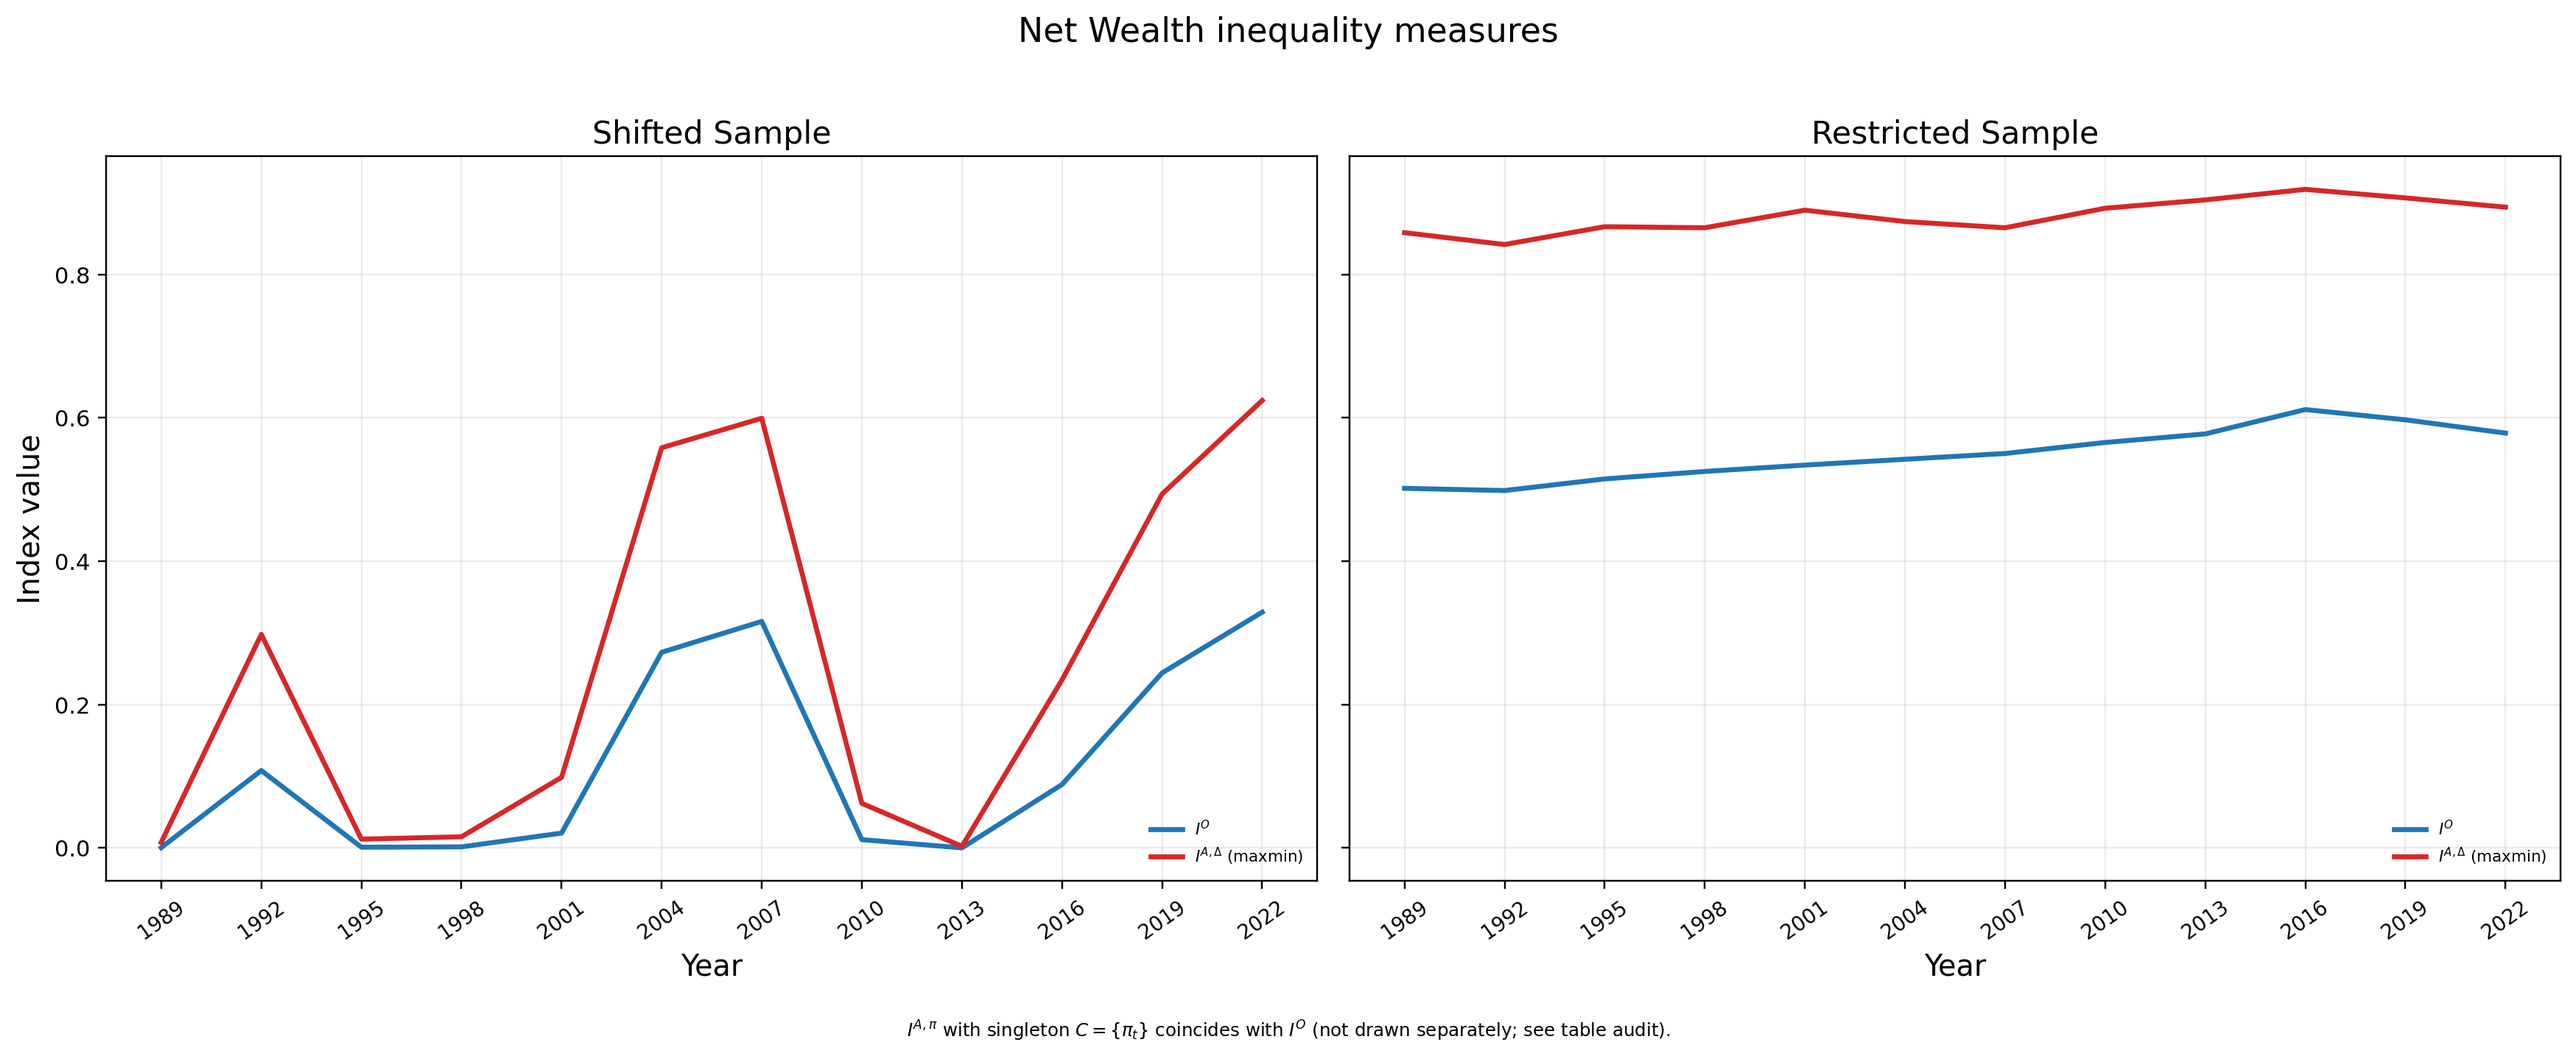
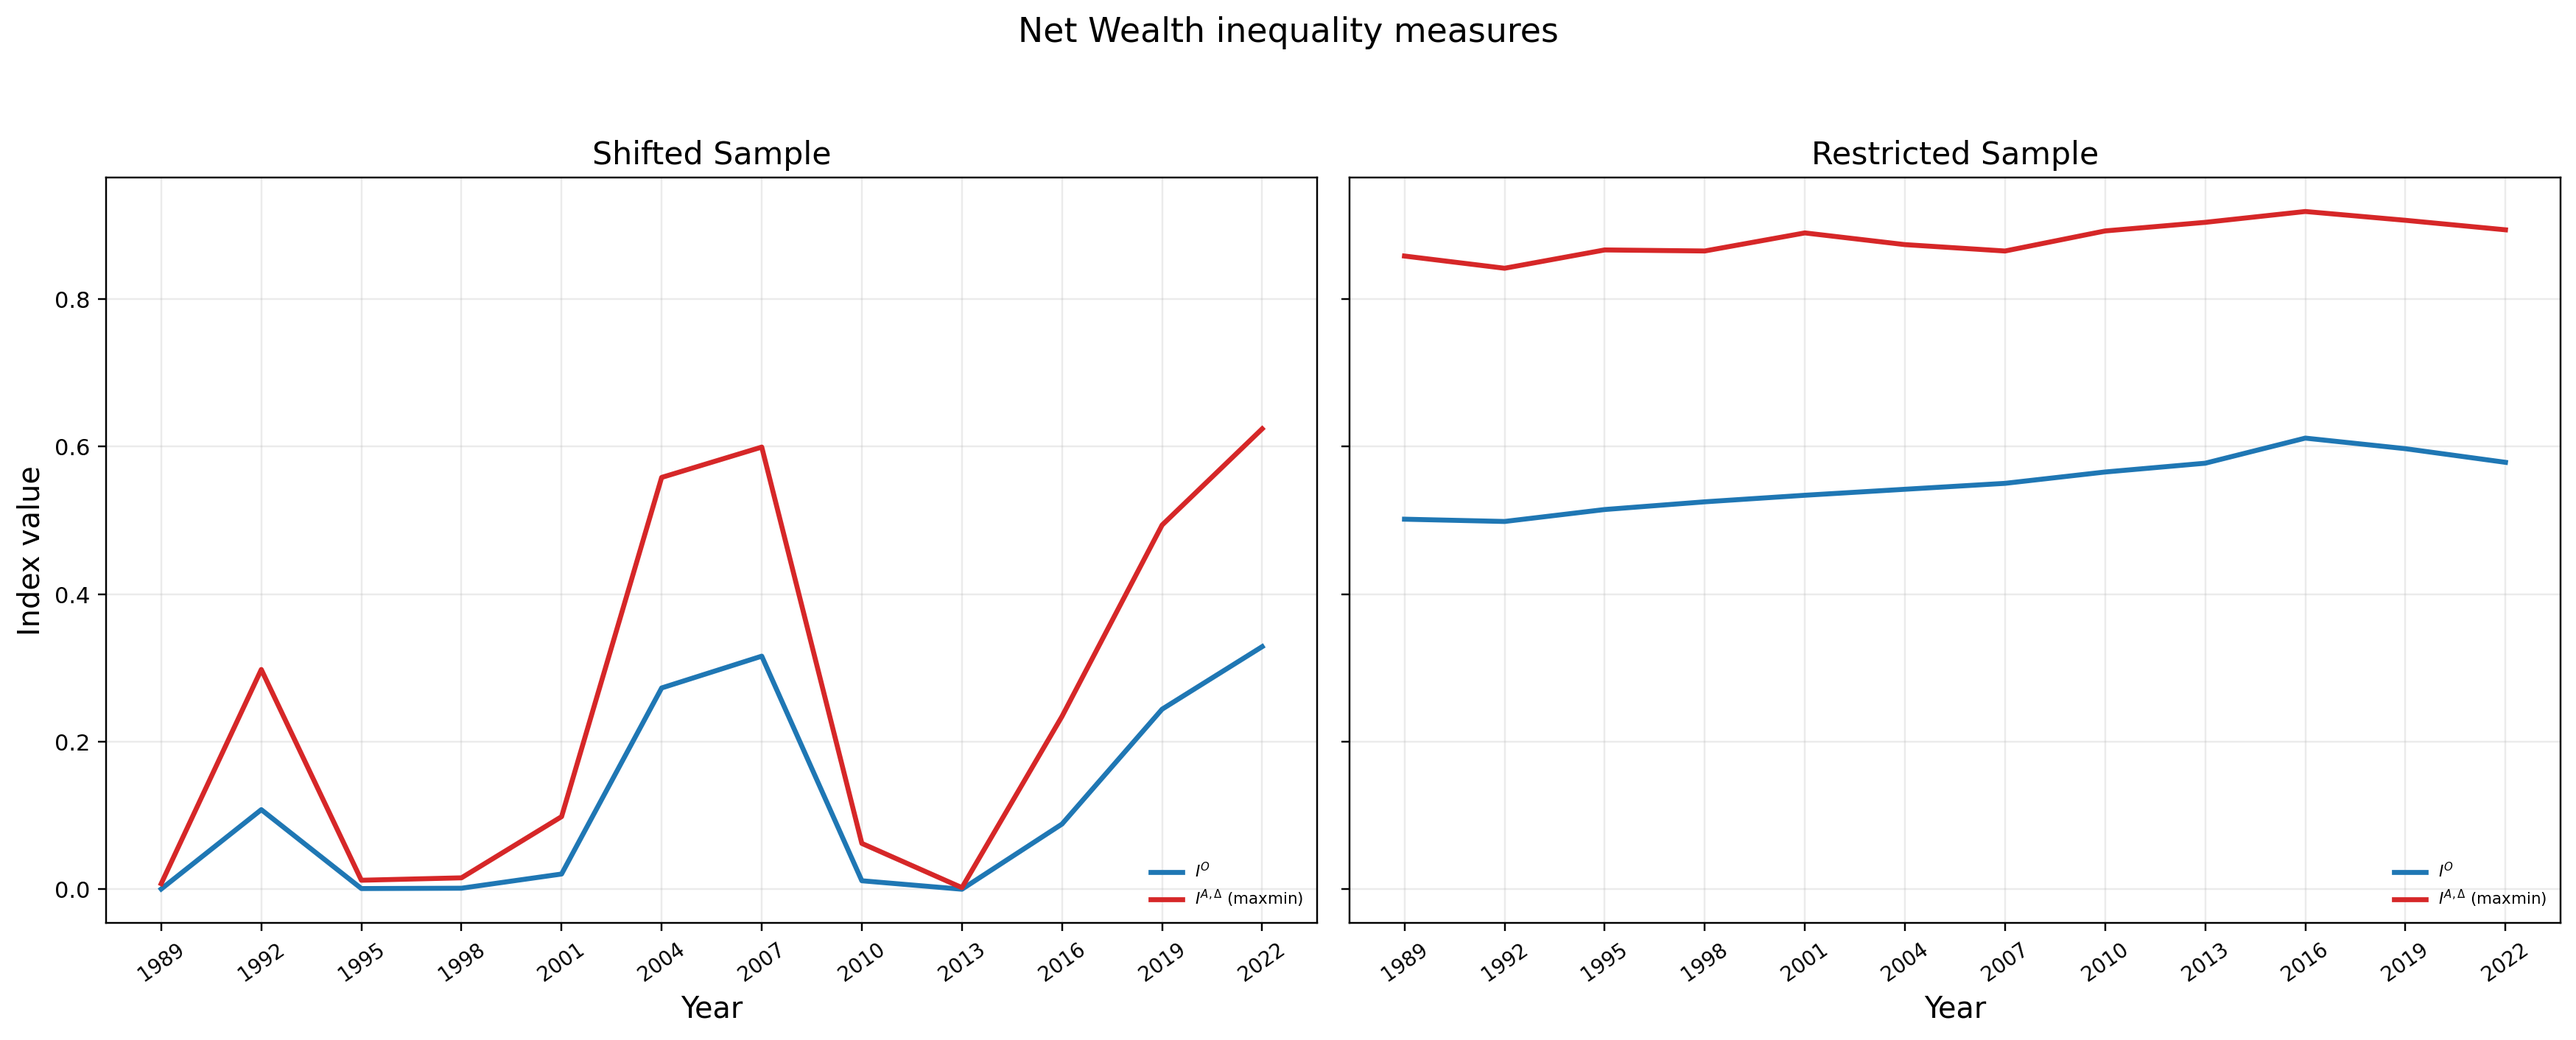
edits

diff --git a/chapters/chapter3/Figures/04_measures_eps0_gross.tex b/chapters/chapter3/Figures/04_measures_eps0_gross.tex
@@ -44,6 +44,4 @@ xticklabel style={/pgf/number format/fixed,/pgf/number format/precision=0,/pgf/n
 \end{tikzpicture}
 \end{minipage}
 
-{\footnotesize $I^{A,\pi}$ with singleton $C=\{\pi_t\}$ equals $I^{O}$ (audit CSV: columns I\_O and I\_A\_singleton).}
-
 % Gross Assets inequality measures

diff --git a/chapters/chapter3/Figures/05_measures_eps05_gross.tex b/chapters/chapter3/Figures/05_measures_eps05_gross.tex
@@ -44,6 +44,4 @@ xticklabel style={/pgf/number format/fixed,/pgf/number format/precision=0,/pgf/n
 \end{tikzpicture}
 \end{minipage}
 
-{\footnotesize $I^{A,\pi}$ with singleton $C=\{\pi_t\}$ equals $I^{O}$ (audit CSV: columns I\_O and I\_A\_singleton).}
-
 % Gross Assets inequality measures

diff --git a/chapters/chapter3/Figures/06_measures_eps1_gross.tex b/chapters/chapter3/Figures/06_measures_eps1_gross.tex
@@ -44,6 +44,4 @@ xticklabel style={/pgf/number format/fixed,/pgf/number format/precision=0,/pgf/n
 \end{tikzpicture}
 \end{minipage}
 
-{\footnotesize $I^{A,\pi}$ with singleton $C=\{\pi_t\}$ equals $I^{O}$ (audit CSV: columns I\_O and I\_A\_singleton).}
-
 % Gross Assets inequality measures

diff --git a/chapters/chapter3/Figures/07_measures_eps2_gross.tex b/chapters/chapter3/Figures/07_measures_eps2_gross.tex
@@ -44,6 +44,4 @@ xticklabel style={/pgf/number format/fixed,/pgf/number format/precision=0,/pgf/n
 \end{tikzpicture}
 \end{minipage}
 
-{\footnotesize $I^{A,\pi}$ with singleton $C=\{\pi_t\}$ equals $I^{O}$ (audit CSV: columns I\_O and I\_A\_singleton).}
-
 % Gross Assets inequality measures

diff --git a/chapters/chapter3/Figures/08_measures_eps025_gross.tex b/chapters/chapter3/Figures/08_measures_eps025_gross.tex
@@ -44,6 +44,4 @@ xticklabel style={/pgf/number format/fixed,/pgf/number format/precision=0,/pgf/n
 \end{tikzpicture}
 \end{minipage}
 
-{\footnotesize $I^{A,\pi}$ with singleton $C=\{\pi_t\}$ equals $I^{O}$ (audit CSV: columns I\_O and I\_A\_singleton).}
-
 % Gross Assets inequality measures

diff --git a/chapters/chapter3/Figures/09_measures_eps15_gross.tex b/chapters/chapter3/Figures/09_measures_eps15_gross.tex
@@ -44,6 +44,4 @@ xticklabel style={/pgf/number format/fixed,/pgf/number format/precision=0,/pgf/n
 \end{tikzpicture}
 \end{minipage}
 
-{\footnotesize $I^{A,\pi}$ with singleton $C=\{\pi_t\}$ equals $I^{O}$ (audit CSV: columns I\_O and I\_A\_singleton).}
-
 % Gross Assets inequality measures

diff --git a/chapters/chapter3/Figures/04_measures_eps0_net.tex b/chapters/chapter3/Figures/04_measures_eps0_net.tex
@@ -44,6 +44,4 @@ xticklabel style={/pgf/number format/fixed,/pgf/number format/precision=0,/pgf/n
 \end{tikzpicture}
 \end{minipage}
 
-{\footnotesize $I^{A,\pi}$ with singleton $C=\{\pi_t\}$ equals $I^{O}$ (audit CSV: columns I\_O and I\_A\_singleton).}
-
 % Net Wealth inequality measures

diff --git a/chapters/chapter3/Figures/05_measures_eps05_net.tex b/chapters/chapter3/Figures/05_measures_eps05_net.tex
@@ -44,6 +44,4 @@ xticklabel style={/pgf/number format/fixed,/pgf/number format/precision=0,/pgf/n
 \end{tikzpicture}
 \end{minipage}
 
-{\footnotesize $I^{A,\pi}$ with singleton $C=\{\pi_t\}$ equals $I^{O}$ (audit CSV: columns I\_O and I\_A\_singleton).}
-
 % Net Wealth inequality measures

diff --git a/chapters/chapter3/Figures/06_measures_eps1_net.tex b/chapters/chapter3/Figures/06_measures_eps1_net.tex
@@ -44,6 +44,4 @@ xticklabel style={/pgf/number format/fixed,/pgf/number format/precision=0,/pgf/n
 \end{tikzpicture}
 \end{minipage}
 
-{\footnotesize $I^{A,\pi}$ with singleton $C=\{\pi_t\}$ equals $I^{O}$ (audit CSV: columns I\_O and I\_A\_singleton).}
-
 % Net Wealth inequality measures

diff --git a/chapters/chapter3/Figures/07_measures_eps2_net.tex b/chapters/chapter3/Figures/07_measures_eps2_net.tex
@@ -44,6 +44,4 @@ xticklabel style={/pgf/number format/fixed,/pgf/number format/precision=0,/pgf/n
 \end{tikzpicture}
 \end{minipage}
 
-{\footnotesize $I^{A,\pi}$ with singleton $C=\{\pi_t\}$ equals $I^{O}$ (audit CSV: columns I\_O and I\_A\_singleton).}
-
 % Net Wealth inequality measures

diff --git a/chapters/chapter3/Figures/08_measures_eps025_net.tex b/chapters/chapter3/Figures/08_measures_eps025_net.tex
@@ -44,6 +44,4 @@ xticklabel style={/pgf/number format/fixed,/pgf/number format/precision=0,/pgf/n
 \end{tikzpicture}
 \end{minipage}
 
-{\footnotesize $I^{A,\pi}$ with singleton $C=\{\pi_t\}$ equals $I^{O}$ (audit CSV: columns I\_O and I\_A\_singleton).}
-
 % Net Wealth inequality measures

diff --git a/chapters/chapter3/Figures/09_measures_eps15_net.tex b/chapters/chapter3/Figures/09_measures_eps15_net.tex
@@ -44,6 +44,4 @@ xticklabel style={/pgf/number format/fixed,/pgf/number format/precision=0,/pgf/n
 \end{tikzpicture}
 \end{minipage}
 
-{\footnotesize $I^{A,\pi}$ with singleton $C=\{\pi_t\}$ equals $I^{O}$ (audit CSV: columns I\_O and I\_A\_singleton).}
-
 % Net Wealth inequality measures
